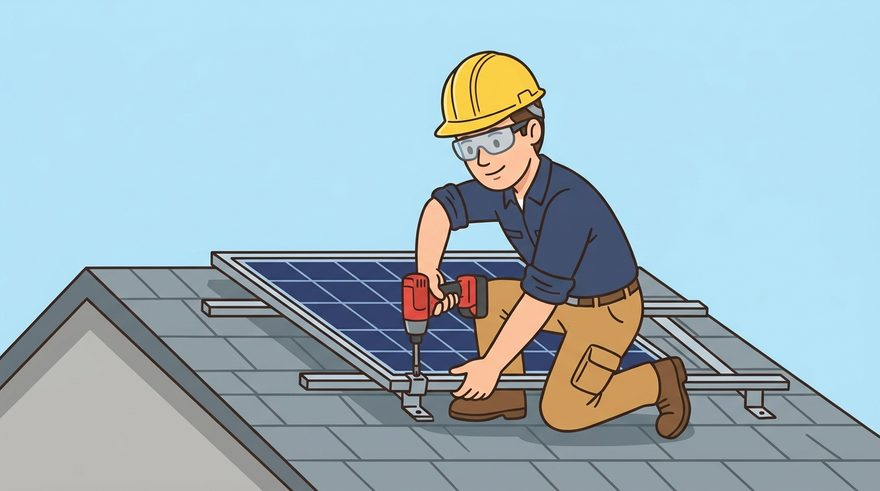
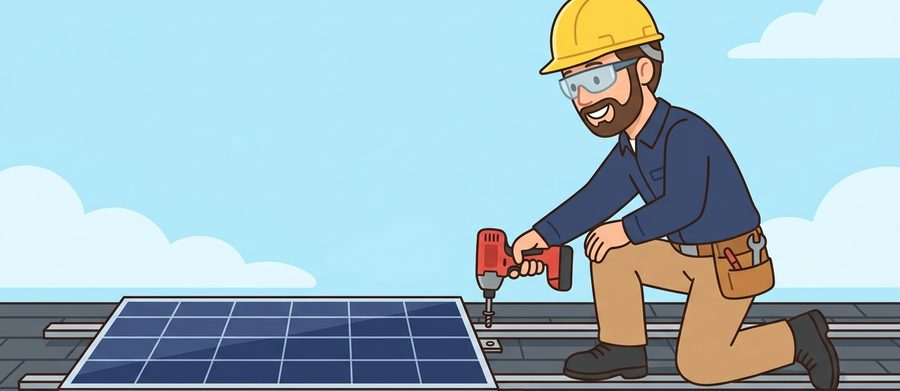
Redraw the installer frames: feet clear of the panel, subtler motion
Two defects in the first set: a boot clipped through the solar panel in every
frame, and the top frame had the driver swung up at the sky, which read as
theatrical rather than as work.

Regenerated with both fixed - both boots flat on the shingles clear of the
panel, driver angled DOWN at the bracket in all three frames - and the loop
is now a small 1->0->2->0 bob of the driver instead of an arm swing.

Also pre-cropped the frames from 1.79 to ~2.3 aspect. At phone width the
150px-tall stage with contentFit="cover" was shaving the top off the hard
hat; trimming the dead sky fixes the framing and drops the assets from
143 KB to 107 KB.

diff --git a/app/src/components/PipelineHero.tsx b/app/src/components/PipelineHero.tsx
@@ -11,9 +11,16 @@ import { fetchCompanyMetrics, type CompanyMetrics } from '@/lib/metrics';
  * scrolling band of company milestone numbers.
  *
  * The animation is three illustrated frames (generated once, checked by eye,
- * committed as assets) cycled in a 0→1→2→1 loop — the driver strokes down and
- * lifts. All three are rendered stacked and cross-faded by opacity rather than
- * swapping one `source`, which avoids a decode flicker on the first cycle.
+ * committed as assets) cycled in a small 1→0→2→0 bob — he's screwing the panel
+ * down to the rail, not swinging his arm. All three are rendered stacked and
+ * cross-faded by opacity rather than swapping one `source`, which avoids a
+ * decode flicker on the first cycle.
+ *
+ * Art notes, learned by regenerating: the frames must show BOTH boots flat on
+ * the shingles clear of the panel (the first attempt clipped a foot through
+ * it) and the driver angled DOWN at the bracket throughout. They're also
+ * pre-cropped to ~2.3 aspect so `contentFit="cover"` doesn't shave the hard
+ * hat off at phone width.
  *
  * No video library: playing real video would need a native dependency and
  * therefore a full App Store build. This ships over the air.
@@ -24,9 +31,13 @@ const FRAMES = [
   require('@/assets/images/installer-1.jpg'),
   require('@/assets/images/installer-2.jpg'),
 ];
-/** Frame indices in playback order — down stroke, then lift. */
-const SEQUENCE = [0, 1, 2, 1];
-const FRAME_MS = 190;
+/**
+ * Playback order: driver bobs slightly up, mid, seated, mid — a small
+ * screwing motion rather than a swinging arm. Frame 1 sits highest, frame 2
+ * lowest, frame 0 in between.
+ */
+const SEQUENCE = [1, 0, 2, 0];
+const FRAME_MS = 170;
 
 function formatNumber(value: number): string {
   return Math.round(value).toLocaleString('en-US');
@@ -122,7 +133,7 @@ export function PipelineHero() {
             style={[StyleSheet.absoluteFill, { opacity: i === activeFrame ? 1 : 0 }]}
             contentFit="cover"
             cachePolicy="memory-disk"
-            // No transition: these swap every 190ms and a fade would smear.
+            // No transition: these swap every 170ms and a fade would smear.
             transition={0}
           />
         ))}
